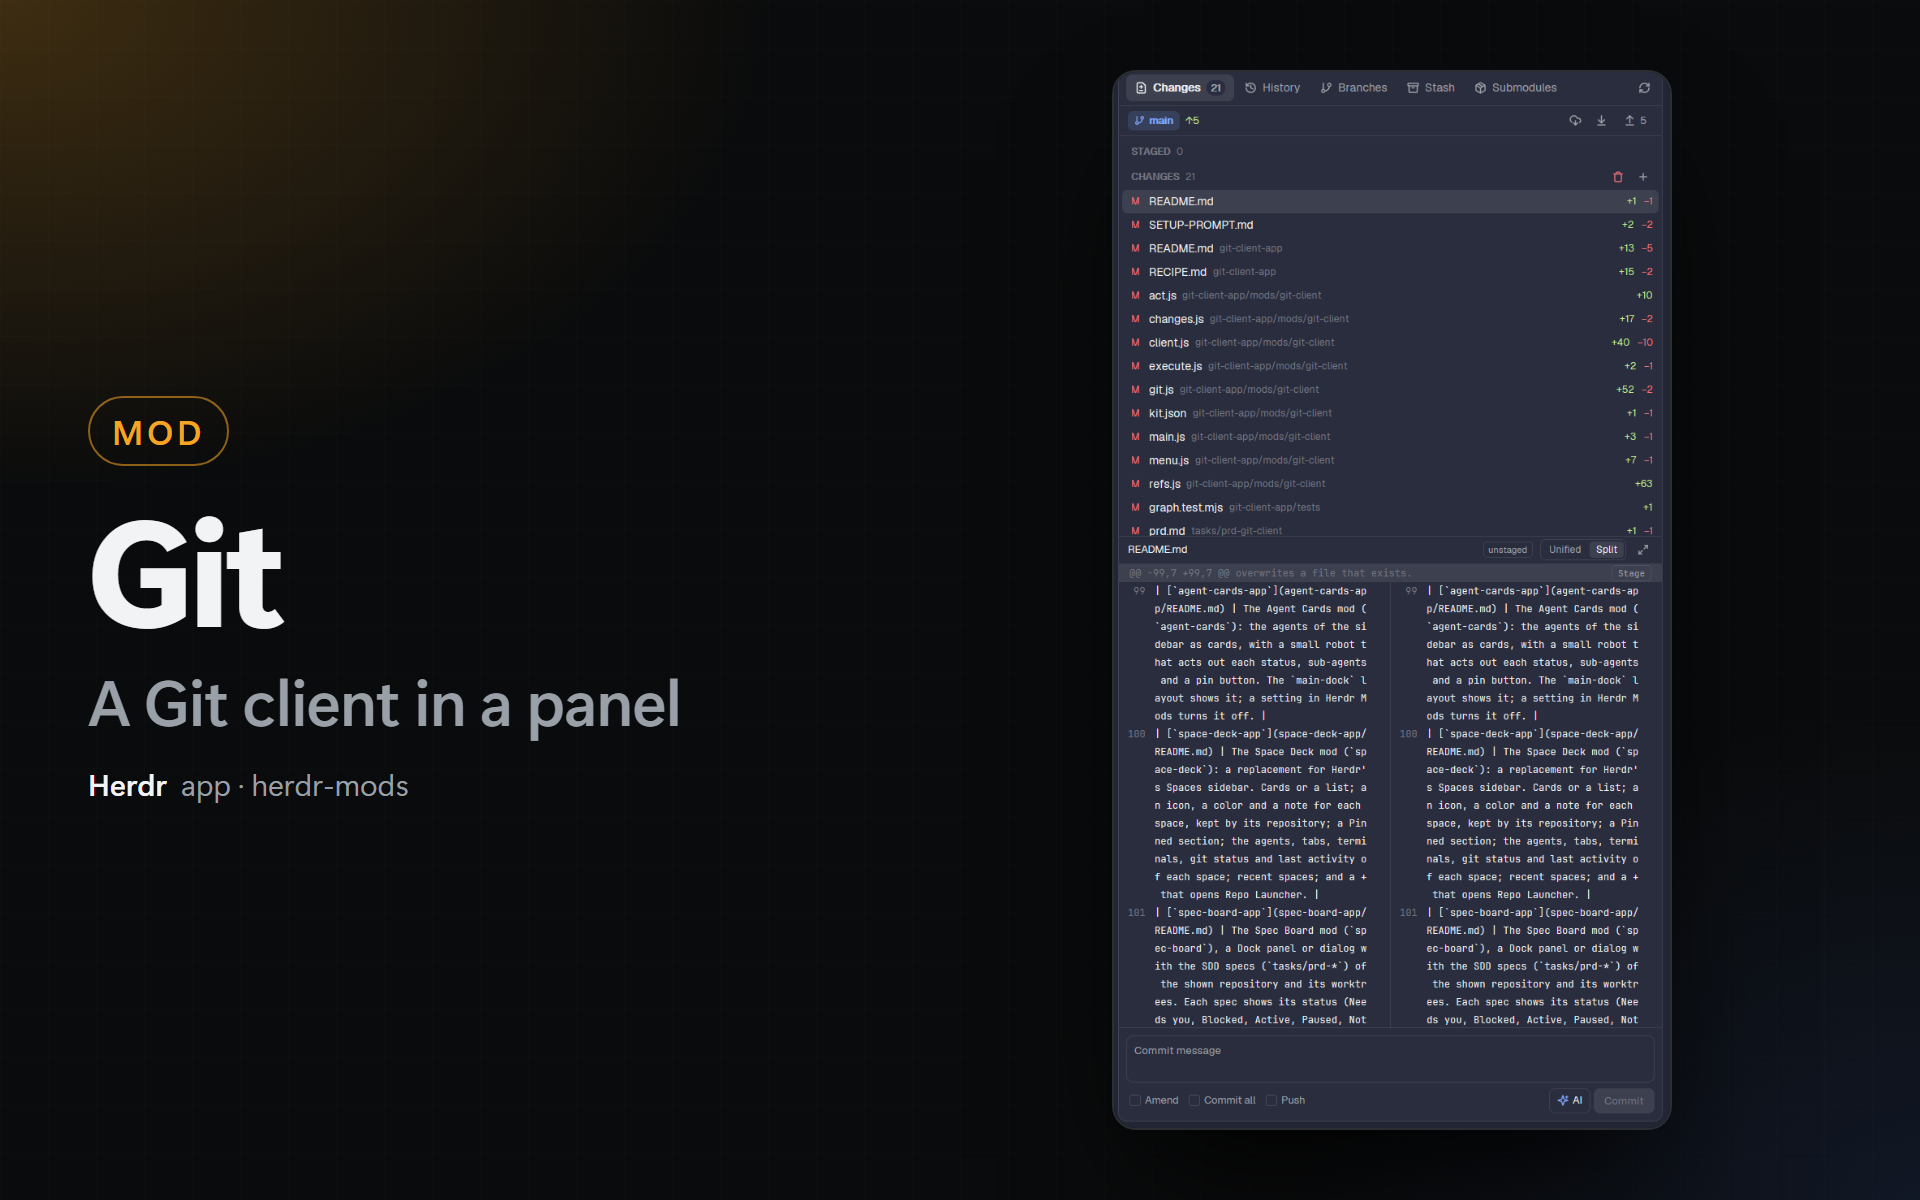
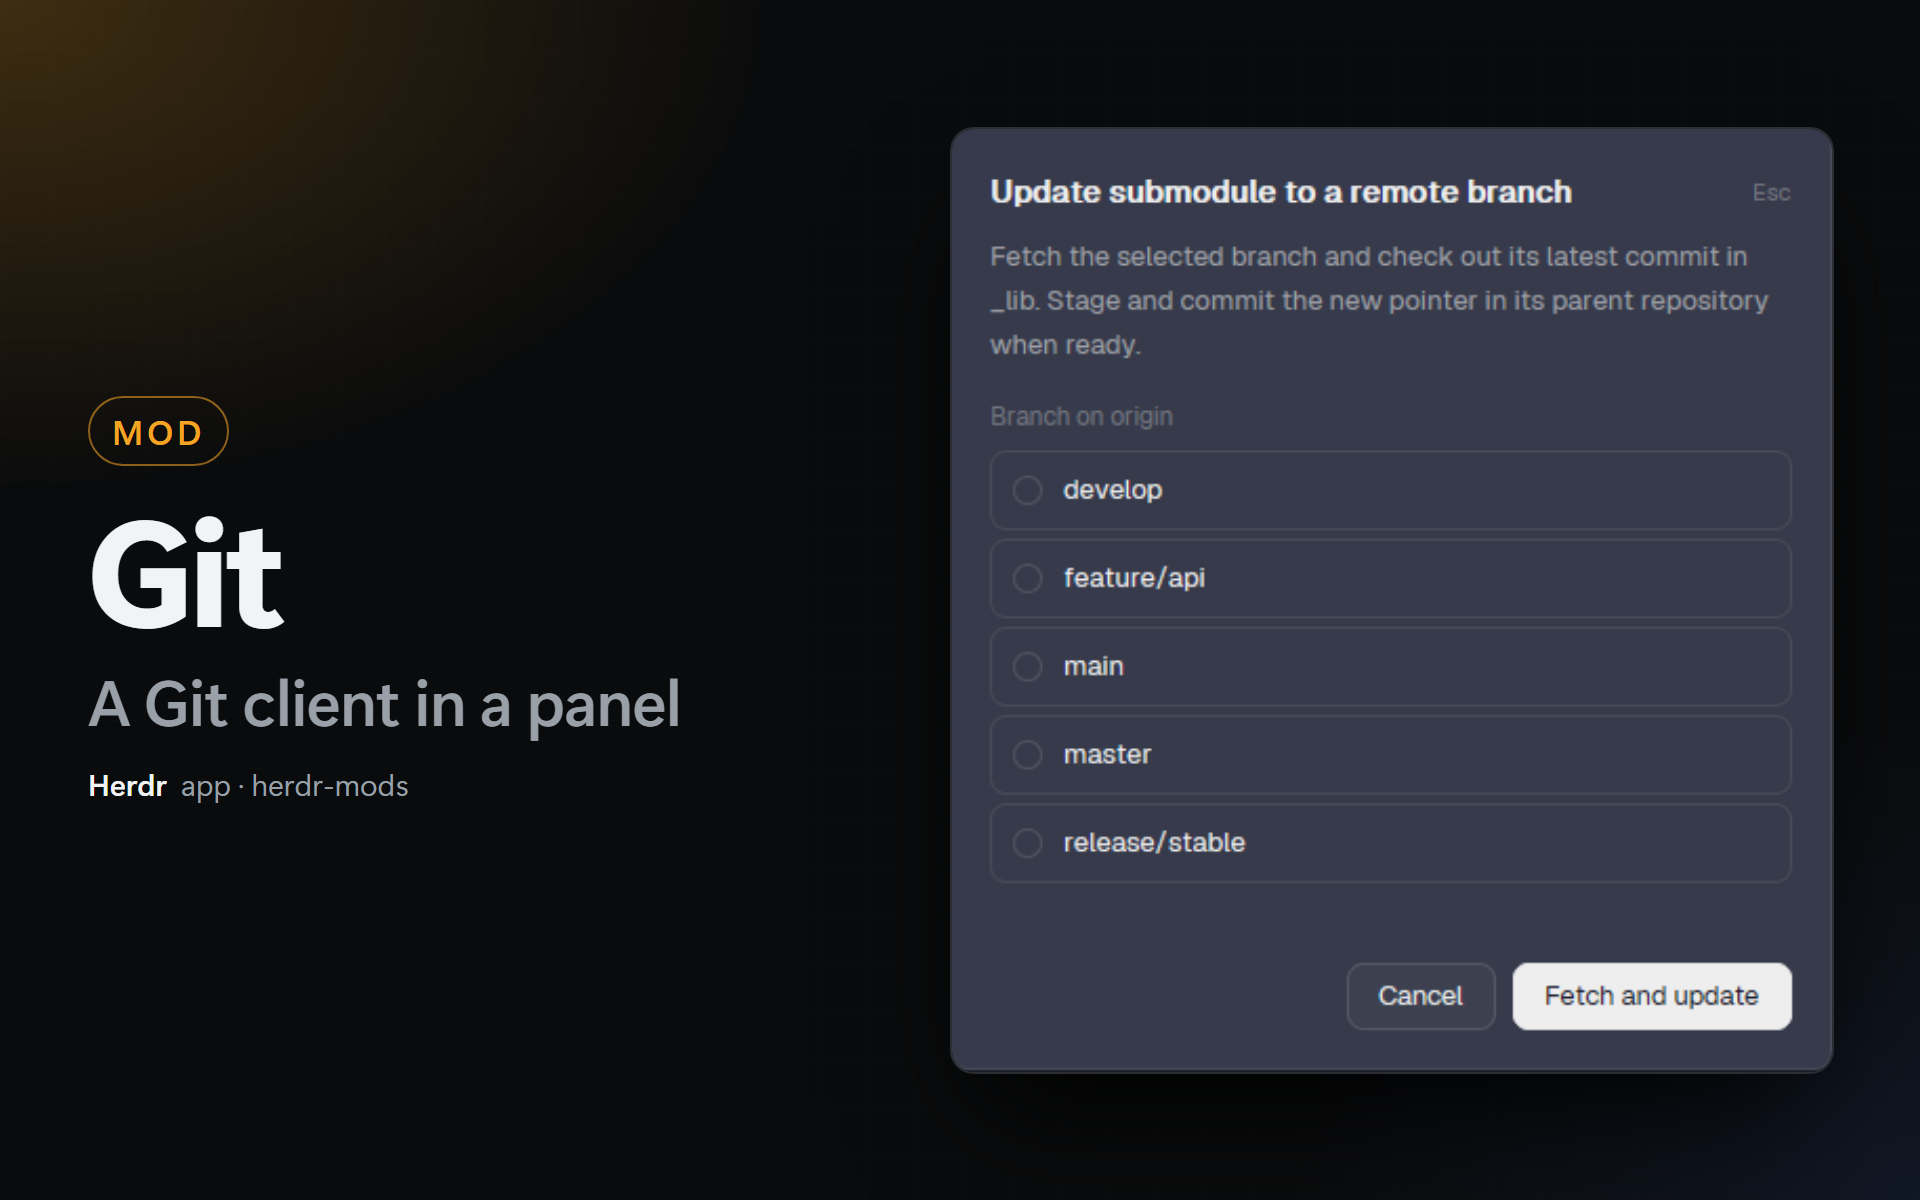
feat(git-client): choose a remote branch for a submodule

Changed region(s): [[0.4688, 0.0308, 0.9688, 0.9558]]

diff --git a/git-client-app/mods/git-client/dialog.js b/git-client-app/mods/git-client/dialog.js
@@ -3,14 +3,16 @@
 // confirm dialogs. Git's error stays in the dialog so the person can fix it.
 import { div, svg } from "gpui-kit";
 import { v_flex, h_flex, InputState, Input } from "gpui-base";
-import { props, closeOverlay, theme } from "herdr";
+import { props, closeOverlay, exec, theme } from "herdr";
 import { dialogFor, initialValues, validate } from "./git.js";
 import { perform } from "./act.js";
+import { listSubmoduleBranches } from "./execute.js";
 import { icon } from "./menu.js";
 
 export class Dialog {
   init(cx) {
     const { action, ctx } = props();
+    this.action = action;
     this.spec = dialogFor(action, ctx);
     this.values = initialValues(action, ctx);
     this.focusedInput = 0;
@@ -28,12 +30,31 @@ export class Dialog {
       if (this.inputs[0].field.value) first.set_selected_range({ start: 0, end: this.inputs[0].field.value.length });
       first.focus();
       cx.timer.after(600, () => first.focus());
-    } else this.handle.focus();
+    } else {
+      this.focusedInput = -1;
+      this.handle.focus();
+    }
+    if (action.type === "submoduleChooseBranch") {
+      this.loading = true;
+      cx.spawn(async (cx) => {
+        try {
+          const remoteBranches = await listSubmoduleBranches(action.path, ctx, exec);
+          this.action = { ...action, ...remoteBranches };
+          this.spec = dialogFor(this.action, ctx);
+        } catch (e) {
+          this.error = String(e?.message ?? e);
+        } finally {
+          this.loading = false;
+          cx.notify();
+        }
+      });
+    }
   }
 
   confirm(cx) {
-    if (this.busy) return;
-    const { action, ctx, overlay } = props();
+    if (this.busy || this.loading || this.spec.choice?.options.length === 0) return;
+    const { ctx, overlay } = props();
+    const action = this.action;
     const problem = validate(action, this.values, ctx);
     if (problem) { this.error = problem; cx.notify(); return; }
     this.busy = true; this.error = null;
@@ -70,16 +91,26 @@ export class Dialog {
       .children(this.inputs.map(({ field, state }, i) => v_flex()
         .child(label(field.label))
         .child(Input.new(state).h(36).px(10).rounded(9).border_1().border_color(this.focusedInput === i ? t.accent : t.input).bg(t.background).text_size(12.8).text_color(t.foreground))))
-      .when(Boolean(s.choice), (el) => el.child(label(s.choice.label)).children(s.choice.options.map((o) => {
-        const on = this.values[s.choice.id] === o.value;
-        return h_flex().id(`gd-choice-${o.value}`).h(38).mb(4).px(10).gap(10).items_center().rounded(8).border_1().cursor_pointer()
-          .border_color(on ? (o.danger ? t.ansi1 : t.accent) : t.border).when(on, (e) => e.bg(t.selected)).hover((st) => st.bg(t.hover))
-          .on_click((_e, cx) => { this.values[s.choice.id] = o.value; this.error = null; cx.notify(); })
-          .child(div().size(14).flex_none().rounded(7).border_1().border_color(on ? (o.danger ? t.ansi1 : t.accent) : t.input).flex().items_center().justify_center()
-            .when(on, (e) => e.child(div().size(6).rounded(3).bg(o.danger ? t.ansi1 : t.accent))))
-          .child(div().min_w(0).truncate().font_medium().child(o.label))
-          .when(Boolean(o.detail), (e) => e.child(div().text_size(11.5).text_color(o.danger ? t.ansi1 : t.dim).child(o.detail)));
-      })))
+      .when(Boolean(s.choice), (el) => {
+        const rows = s.choice.options.map((o) => {
+          const on = this.values[s.choice.id] === o.value;
+          return h_flex().id(`gd-choice-${o.value}`).h(38).flex_none().mb(4).px(10).gap(10).items_center().rounded(8).border_1().cursor_pointer()
+            .border_color(on ? (o.danger ? t.ansi1 : t.accent) : t.border).when(on, (e) => e.bg(t.selected)).hover((st) => st.bg(t.hover))
+            .on_click((_e, cx) => {
+              if (this.busy) return;
+              this.values[s.choice.id] = o.value; this.error = null; cx.notify();
+            })
+            .child(div().size(14).flex_none().rounded(7).border_1().border_color(on ? (o.danger ? t.ansi1 : t.accent) : t.input).flex().items_center().justify_center()
+              .when(on, (e) => e.child(div().size(6).rounded(3).bg(o.danger ? t.ansi1 : t.accent))))
+            .child(div().min_w(0).truncate().font_medium().child(o.label))
+            .when(Boolean(o.detail), (e) => e.child(div().text_size(11.5).text_color(o.danger ? t.ansi1 : t.dim).child(o.detail)));
+        });
+        el = el.child(label(s.choice.label));
+        if (!s.choice.scrollHeight) return el.children(rows);
+        return el.child(v_flex().id("gd-choice-list").h(s.choice.scrollHeight).w_full().flex_none().overflow_y_scrollbar()
+          .when(this.loading, (list) => list.child(div().p(10).text_color(t.dim).child("Loading remote branches…")))
+          .children(rows));
+      })
       .children((s.checks ?? []).map((c) => {
         const on = Boolean(this.values[c.id]);
         return h_flex().id(`gd-check-${c.id}`).pt(12).gap(9).items_center().cursor_pointer()
@@ -92,6 +123,6 @@ export class Dialog {
       .child(div().flex_1())
       .child(h_flex().pt(16).gap(8).justify_end()
         .child(button("gd-cancel", "Cancel", false, () => closeOverlay(props().overlay)))
-        .child(button("gd-ok", this.busy ? "Working…" : s.confirm, true, (_e, cx) => this.confirm(cx))));
+        .when(s.choice?.options.length !== 0, (el) => el.child(button("gd-ok", this.busy ? "Working…" : s.confirm, true, (_e, cx) => this.confirm(cx)))));
   }
 }

diff --git a/git-client-app/mods/git-client/git.js b/git-client-app/mods/git-client/git.js
@@ -353,7 +353,8 @@ export function menuFor(target, ctx) {
       section(ready && item("Open in the client", "folder", { type: "openSubmodule", path: s.path }),
         ready && item("Open in a space", "folder", { type: "openWorktree", path: `${ctx.root}/${s.path}` })),
       section(item(ready ? "Update to the recorded commit" : "Initialize and update", "fetch", { type: "submoduleUpdate", ...one }),
-        item("Update from the remote branch", "cloud-down", { type: "submoduleUpdateRemote", ...one }),
+        item("Update from the configured branch", "cloud-down", { type: "submoduleUpdateRemote", ...one }),
+        ready && s.state !== "conflict" && item("Update to a remote branch…", "cloud-down", { type: "submoduleChooseBranch", ...one }),
         item("Sync the URL", "refresh", { type: "submoduleSync", ...one })),
       section(!s.nested && item("Remove submodule…", "trash", { type: "submoduleRemove", path: s.path })),
       section(item("Copy path", "copy", { type: "copy", text: s.path }),
@@ -500,6 +501,13 @@ export function dialogFor(action, ctx) {
       inputs: [{ id: "url", label: "URL", value: "" }, { id: "path", label: "Folder (optional: the name of the repository)", value: "", optional: true, text: true },
         { id: "branch", label: "Branch (optional)", value: "", optional: true }], confirm: "Add" };
     case "submoduleRemove": return { title: "Remove submodule", detail: `Remove ${a.path}: deinit it, delete its folder and its entry in .gitmodules. Commit the change after.`, confirm: "Remove", danger: true };
+    case "submoduleChooseBranch": return {
+      title: "Update submodule to a remote branch",
+      detail: `Fetch the selected branch and check out its latest commit in ${a.path}. Stage and commit the new pointer in its parent repository when ready.`,
+      choice: { id: "branch", label: a.remote ? `Branch on ${a.remote}` : "Remote branch", scrollHeight: 216,
+        options: (a.branches ?? []).map((branch) => ({ value: branch, label: branch })) },
+      confirm: "Fetch and update",
+    };
     case "stashDrop": return { title: "Drop stash", detail: `Delete ${a.ref}${a.message ? ` (${a.message})` : ""}? This cannot be undone.`, confirm: "Drop", danger: true };
     case "abortOp": return { title: `Abort the ${a.op}`, detail: `Stop the ${a.op} and go back to where the branch was before it. Conflict fixes made so far are lost.`, confirm: "Abort", danger: true };
     case "discardHunk": return { title: "Discard hunk", detail: `Discard this hunk of ${a.path} from the work tree. This cannot be undone.`, confirm: "Discard", danger: true };
@@ -546,7 +554,7 @@ export function dialogFor(action, ctx) {
 export function dialogHeight(spec) {
   const detail = spec.detail ? Math.ceil(spec.detail.length / 52) * 19 + 8 : 0;
   return Math.ceil(36 + 26 + detail + (spec.inputs ?? []).length * 66 + (spec.checks ?? []).length * 30
-    + (spec.choice ? 24 + spec.choice.options.length * 42 : 0) + 30 + 52);
+    + (spec.choice ? 24 + (spec.choice.scrollHeight ?? spec.choice.options.length * 42) : 0) + 30 + 52);
 }
 
 const values = (spec) => {
@@ -721,6 +729,7 @@ export function doneText(a, v = {}) {
     case "pruneWorktrees": return "Pruned the worktrees";
     case "submoduleUpdate": return a.path ? `Updated ${a.path}` : "Updated the submodules";
     case "submoduleUpdateRemote": return a.path ? `Updated ${a.path} from its remote branch` : "Updated the submodules from their remote branches";
+    case "submoduleChooseBranch": return `Updated ${a.path} to ${a.remote}/${v.branch}`;
     case "submoduleSync": return a.path ? `Synced the URL of ${a.path}` : "Synced the submodule URLs";
     case "submoduleAdd": return "Added the submodule";
     case "submoduleRemove": return `Removed ${a.path}`;

diff --git a/git-client-app/mods/git-client/execute.js b/git-client-app/mods/git-client/execute.js
@@ -13,6 +13,7 @@ const HUNK = { stageHunk: ["--cached"], unstageHunk: ["--cached", "-R"], discard
 
 export async function executeAction(action, values, ctx, exec, io = null) {
   const git = (args) => exec("git", args, { cwd: ctx.root, on: ctx.on });
+  if (action.type === "submoduleChooseBranch") return updateSubmoduleBranch(action, values.branch, ctx, exec);
   if (HUNK[action.type]) return applyPatch(action.patch, HUNK[action.type], ctx, exec, io);
   if (action.type === "ignore") {
     // Only a line that the dialog offers for this file: a value never names an other path.
@@ -56,6 +57,53 @@ export async function executeAction(action, values, ctx, exec, io = null) {
     if (!added.ok) return { ok: false, message: `Git stopped tracking ${action.path}, but the ignore file did not change.\n${added.message}` };
   }
   return { ok: true };
+}
+
+async function submoduleGit(ctx, path, exec) {
+  if (typeof path !== "string" || !path || /[\\\0]|^\/|(?:^|\/)\.\.?(?:\/|$)/.test(path)) {
+    throw new Error("Invalid submodule path.");
+  }
+  const git = (args) => exec("git", args, { cwd: `${ctx.root}/${path}`, on: ctx.on, timeout: 60000 });
+  // Git can otherwise fall back to the parent when the submodule is deinitialized.
+  const root = await git(["rev-parse", "--show-prefix", "--show-superproject-working-tree"]);
+  const [prefix, parent] = (root.stdout ?? "").split(/\r?\n/);
+  if (root.code !== 0 || prefix || !parent) throw new Error("Initialize the submodule before updating it.");
+  return git;
+}
+
+async function submoduleRemotes(git) {
+  const result = await git(["remote"]);
+  if (result.code !== 0) throw new Error(gitError(result));
+  return result.stdout.split(/\r?\n/).filter(Boolean);
+}
+
+export async function listSubmoduleBranches(path, ctx, exec) {
+  const git = await submoduleGit(ctx, path, exec);
+  const remotes = await submoduleRemotes(git);
+  const remote = remotes.includes("origin") ? "origin" : remotes[0];
+  if (!remote) throw new Error("The submodule has no remote.");
+  const result = await git(["ls-remote", "--heads", "--", remote]);
+  if (result.code !== 0) throw new Error(gitError(result));
+  const branches = result.stdout.split(/\r?\n/).flatMap((line) => {
+    const match = /^[0-9a-f]+\trefs\/heads\/(.+)$/.exec(line);
+    return match ? [match[1]] : [];
+  });
+  if (!branches.length) throw new Error(`No branches found on ${remote}.`);
+  return { remote, branches };
+}
+
+async function updateSubmoduleBranch(action, branch, ctx, exec) {
+  if (!branch || !action.branches?.includes(branch)) return { ok: false, message: "Pick a remote branch." };
+  const git = await submoduleGit(ctx, action.path, exec);
+  const remote = action.remote;
+  if (!(await submoduleRemotes(git)).includes(remote)) return { ok: false, message: "The submodule remote is no longer configured." };
+  const source = `refs/heads/${branch}`, target = `refs/remotes/${remote}/${branch}`;
+  const ref = await git(["check-ref-format", source]);
+  if (ref.code !== 0) return { ok: false, message: "Invalid remote branch." };
+  const fetched = await git(["fetch", "--no-tags", "--no-recurse-submodules", "--refmap=", "--", remote, `+${source}:${target}`]);
+  if (fetched.code !== 0) return { ok: false, message: gitError(fetched) };
+  const switched = await git(["switch", "--detach", "--no-recurse-submodules", "--no-overwrite-ignore", target, "--"]);
+  return switched.code === 0 ? { ok: true } : { ok: false, message: gitError(switched) };
 }
 
 // One hunk with `git apply`. exec takes no input, so the patch goes through a file here, and

diff --git a/git-client-app/README.md b/git-client-app/README.md
@@ -45,7 +45,9 @@ The stashes, newest first, with their branch and age. **New stash…** stashes t
 
 ### Submodules
 
-Each submodule with its folder, its commit, its description and branch, the number of changed files, and its state: `ok`, `modified`, `out of sync` (another commit than the recorded one), `uninitialized` or `conflict`. **Update all** initializes and updates every submodule (`--recursive`), **Sync** copies the URLs of `.gitmodules`, **Add…** clones a repository into a folder (the name of the repository unless you type one, and a branch if you want). A click (or a right-click) on a submodule opens its menu: **Open in the client** (the panel shows the submodule; **Back** in the branch bar goes to the repository that holds it), **Open in a space**, **Update to the recorded commit**, **Update from the remote branch**, **Sync the URL**, **Remove submodule…** (asks; commit the change after), Copy path, Copy URL.
+Each submodule with its folder, its commit, its description and branch, the number of changed files, and its state: `ok`, `modified`, `out of sync` (another commit than the recorded one), `uninitialized` or `conflict`. **Update all** initializes and updates every submodule (`--recursive`), **Sync** copies the URLs of `.gitmodules`, **Add…** clones a repository into a folder (the name of the repository unless you type one, and a branch if you want). A click (or a right-click) on a submodule opens its menu: **Open in the client** (the panel shows the submodule; **Back** in the branch bar goes to the repository that holds it), **Open in a space**, **Update to the recorded commit**, **Update from the configured branch**, **Sync the URL**, **Remove submodule…** (asks; commit the change after), Copy path, Copy URL.
+
+**Update to a remote branch…** lists the branches of an initialized submodule's remote (`origin` when present). Choose a branch and click **Fetch and update**. The new submodule pointer appears in **Changes**, where you can stage and commit it when ready.
 
 ## Settings
 

diff --git a/SETUP-PROMPT.md b/SETUP-PROMPT.md
@@ -1,4 +1,4 @@
-<!-- herdr-mods-setup-version: 106 -->
+<!-- herdr-mods-setup-version: 107 -->
 # Set up or update my Herdr mods
 
 The first line of this file holds the version of the prompt. The `mods-hub`

diff --git a/whats-new/107.md b/whats-new/107.md
@@ -1,0 +1,1 @@
+- **Git:** Choose a remote branch from a submodule's menu and fetch its latest commit. The new submodule pointer appears in Changes for you to stage and commit.
